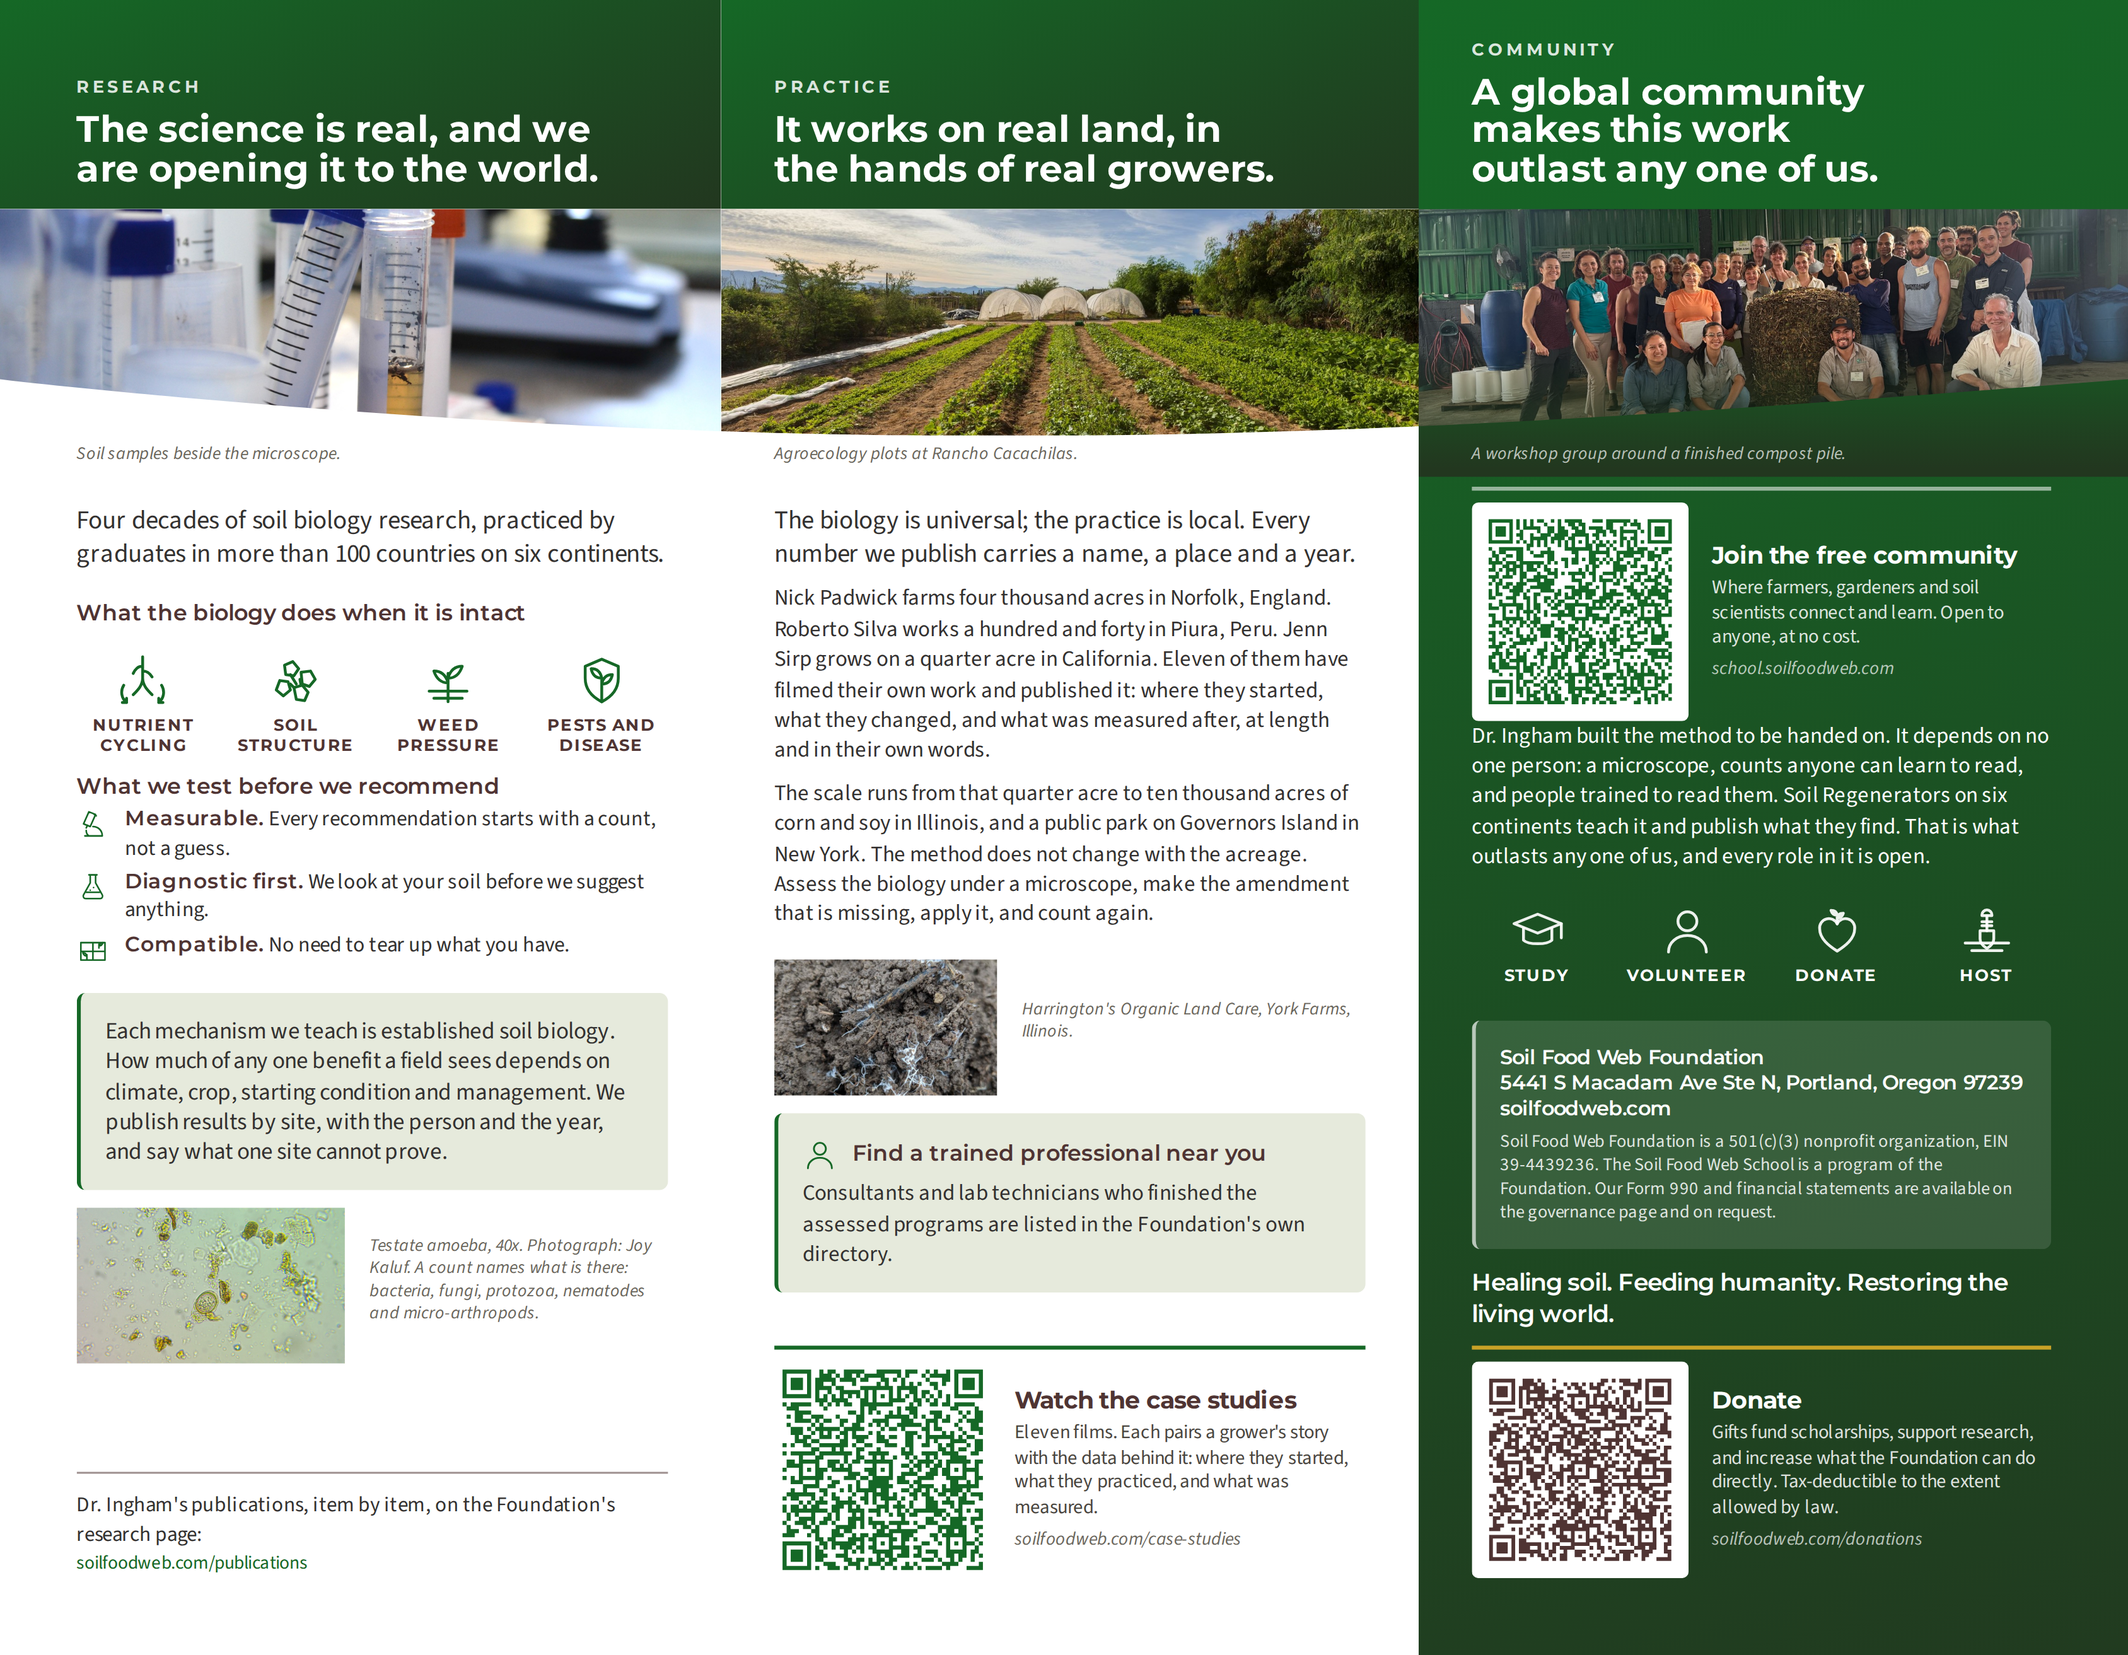
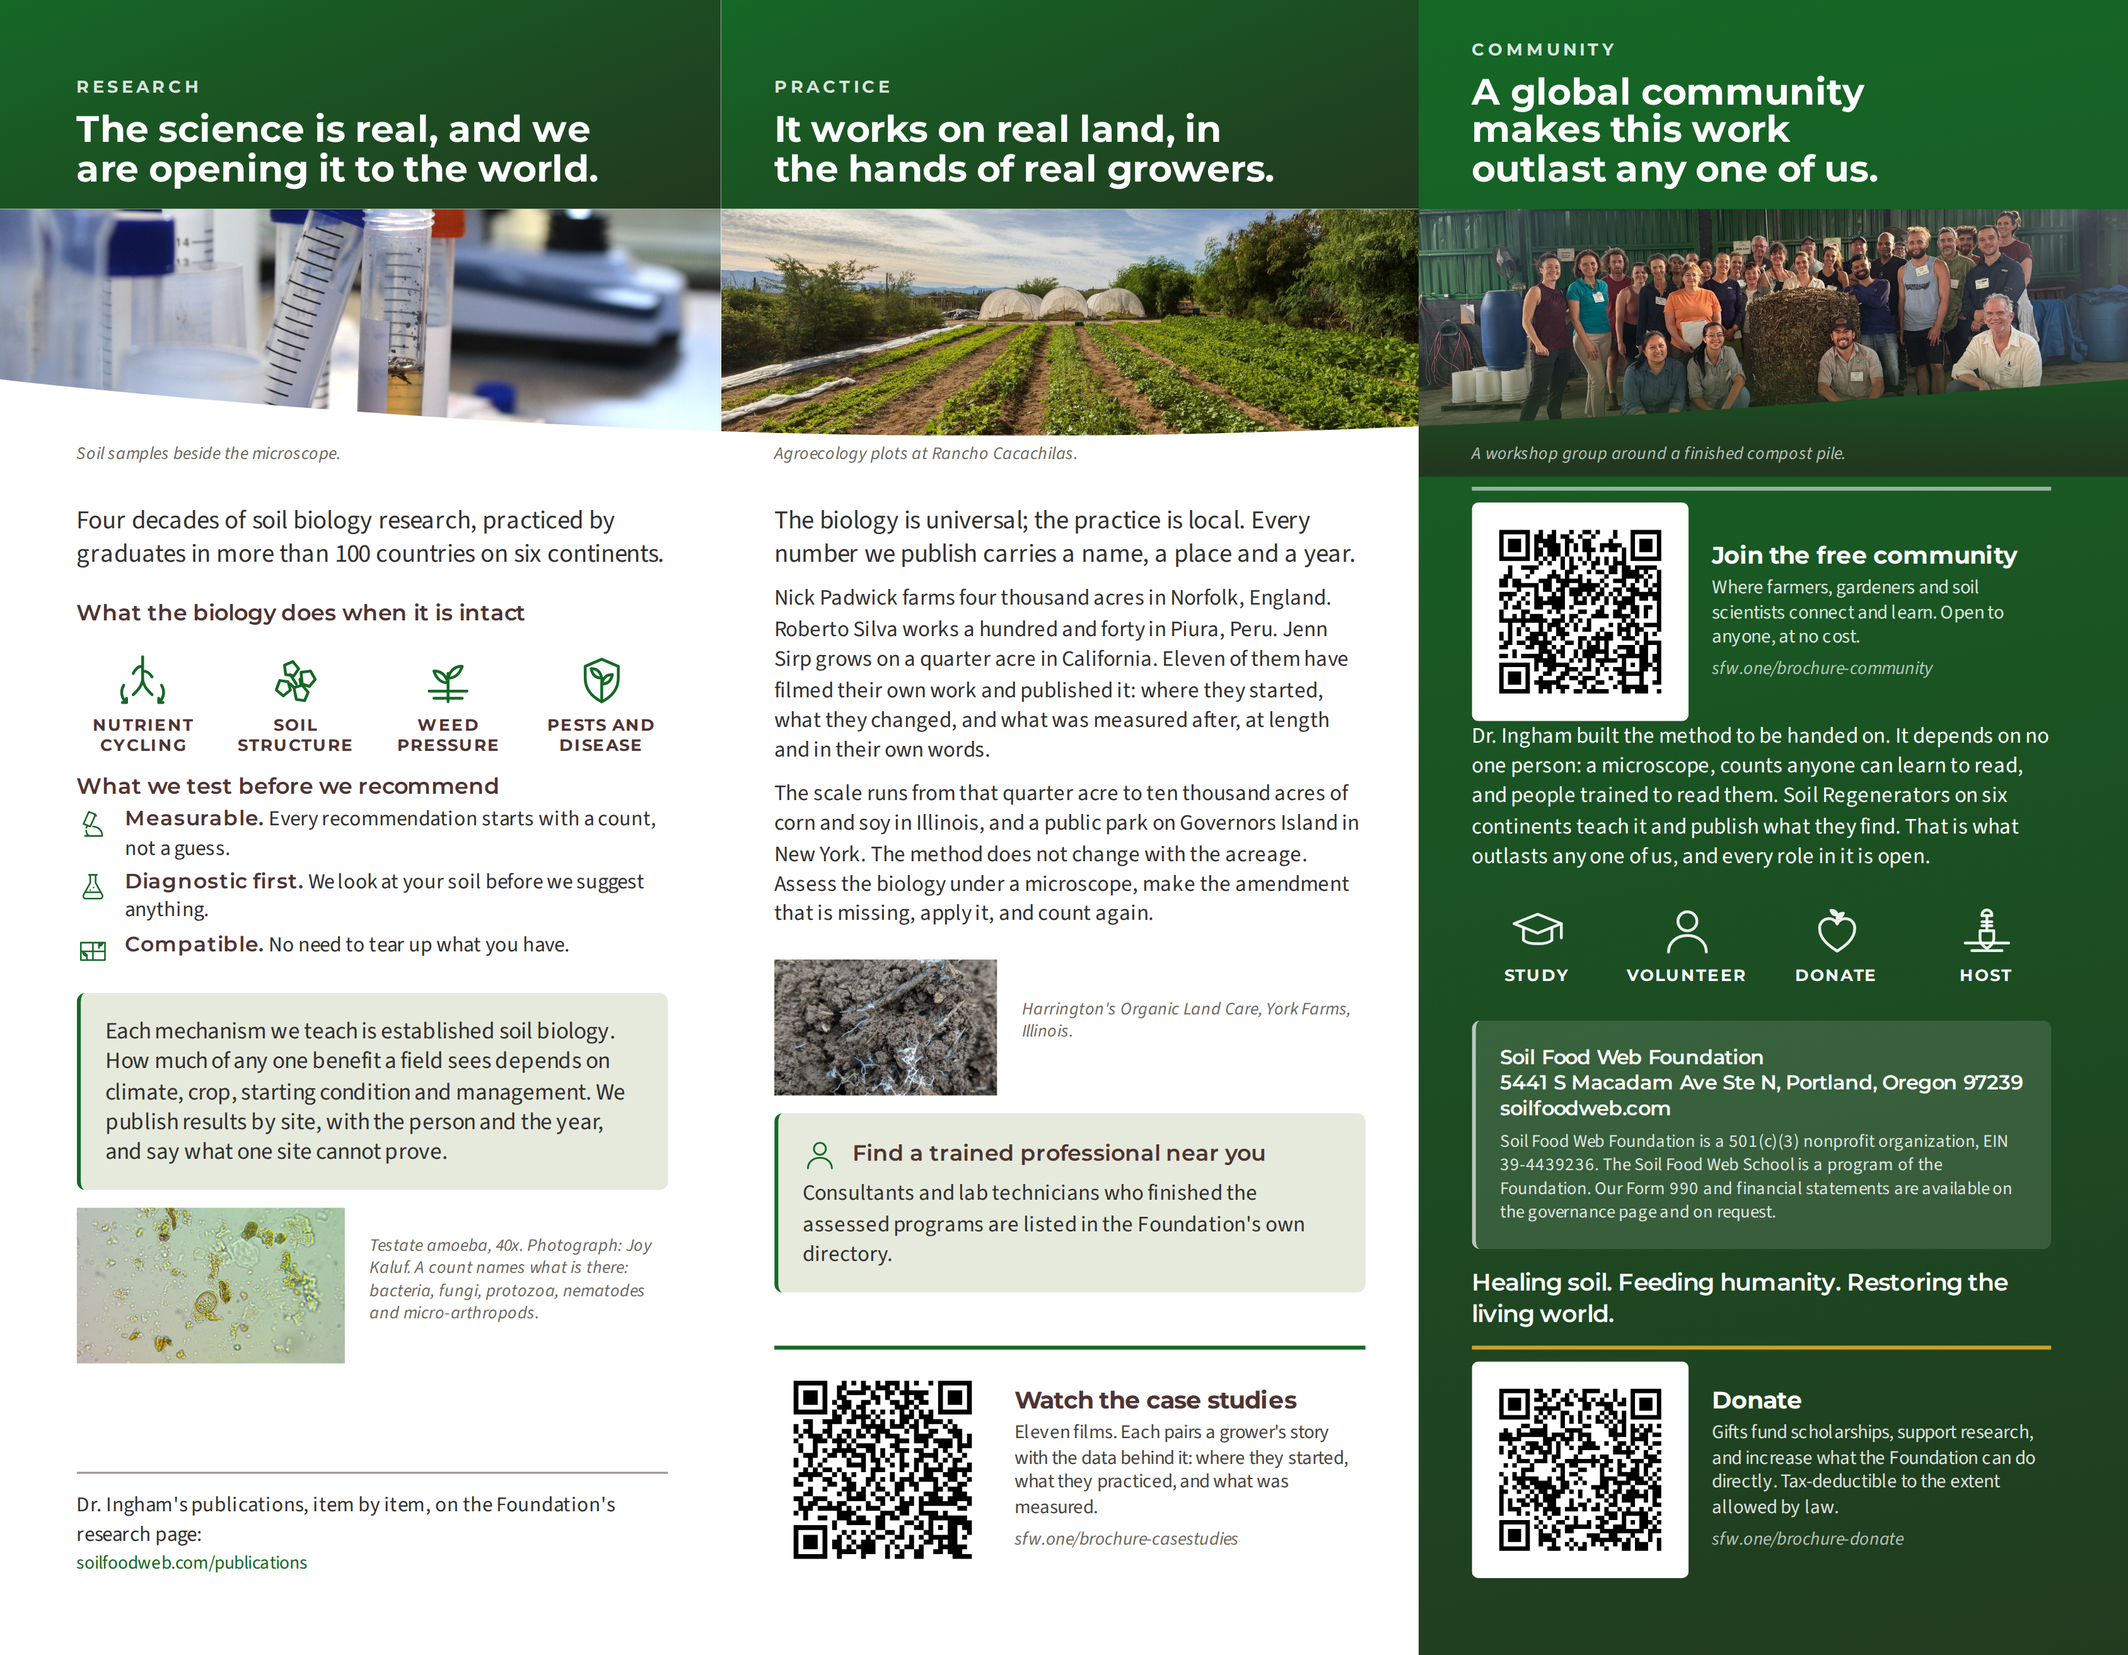
Trifold: short links in the codes, at error correction H
Every code now holds a Switchy short link rather than its destination, and
that is the change that matters. A printed code cannot be edited, and the
destinations under this brochure have already moved once: three of them
pointed at rebuilt-site paths that 404 on the live WordPress site. With a
short link in the code, a moved destination is a redirect edit instead of a
reprint. The campaign UTM parameters ride on the redirect, so reporting is
unchanged and none of it costs modules here.

The short payload buys the error correction back. All five go from M to H,
30% recoverable, with four modules of quiet zone, and every one is version
5 at 45 modules, which across 29.2mm is 0.649mm a module. The long URLs
could only manage M at 0.48 to 0.60mm, and the community code was under the
practical print minimum. There is real margin now.

Black on white rather than each panel's accent. A code has to read before
it has to be on brand, and these sit on four differently coloured panels;
the accent stays on the rule above the code, where nothing has to scan it.

The printed address under each code is the short link it encodes, so the
fallback for someone typing it in goes where the code goes. Three of the
five were wrong before: the case study code printed a path that 404s, the
scholarship code printed a bare domain that lands on the homepage, and the
community code printed the school domain rather than the community itself.
[…]

diff --git a/Trifold Design/build/inside.html b/Trifold Design/build/inside.html
@@ -160,7 +160,7 @@
           <div class="d">Eleven films. Each pairs a grower's story with the
             data behind it: where they started, what they practiced, and what
             was measured.</div>
-          <div class="h">soilfoodweb.com/case-studies</div>
+          <div class="h">sfw.one/brochure-casestudies</div>
         </div>
       </div>
 
@@ -185,7 +185,7 @@
           <div class="t">Join the free community</div>
           <div class="d">Where farmers, gardeners and soil scientists connect
             and learn. Open to anyone, at no cost.</div>
-          <div class="h">school.soilfoodweb.com</div>
+          <div class="h">sfw.one/brochure-community</div>
         </div>
       </div>
 
@@ -225,7 +225,7 @@
           <div class="d">Gifts fund scholarships, support research, and increase
             what the Foundation can do directly. Tax-deductible to the extent
             allowed by law.</div>
-          <div class="h">soilfoodweb.com/donations</div>
+          <div class="h">sfw.one/brochure-donate</div>
         </div>
       </div>
 

diff --git a/Trifold Design/build/outside.html b/Trifold Design/build/outside.html
@@ -145,7 +145,7 @@
           <div class="t">Watch a free webinar</div>
           <div class="d">A live hour with an instructor or a practitioner, every
             month. The easiest first step.</div>
-          <div class="h">webinar.soilfoodweb.com</div>
+          <div class="h">sfw.one/brochure-webinar</div>
         </div>
       </div>
 
@@ -206,7 +206,7 @@
           <div class="t">Apply for a scholarship</div>
           <div class="d">Scholarships prioritize applicants in under-resourced
             regions.</div>
-          <div class="h">soilfoodweb.com/scholarship-opportunities</div>
+          <div class="h">sfw.one/brochure-scholarship</div>
         </div>
       </div>
 

diff --git a/Trifold Design/build/make-qr.py b/Trifold Design/build/make-qr.py
@@ -1,83 +1,67 @@
 #!/usr/bin/env python3
-"""Generate the QR codes for the trifold, one per panel.
+"""Generate the five QR codes for the trifold, and the standalone PNGs.
 
-Colours are taken from css/site.css section 1. See NOTES.md for the
-token decision behind each one. Run from the repo root:
+Each code carries a Switchy short link, not the destination. Three reasons,
+and the first two are the important ones:
+
+  1. A printed code cannot be changed. The short link can, so a destination
+     that moves, or a rebuilt site that renames a path, is a redirect edit
+     rather than a reprint. This brochure has already had three addresses go
+     404 under it once.
+  2. Short payloads mean few modules, and few modules mean each module is
+     physically large enough to survive press. These fit at error correction
+     H with room to spare; the long URLs with UTM tails did not.
+  3. The UTM parameters ride on the redirect, so the campaign reporting is
+     unchanged and none of it costs modules here.
+
+Pure black on white, error correction H, four modules of quiet zone.
 
     python3 "Trifold Design/build/make-qr.py"
+    python3 "Trifold Design/build/check-qr.py"   # decodes them back out
 """
 import pathlib
 import segno
 
-OUT = pathlib.Path(__file__).parent / "qr"
-OUT.mkdir(exist_ok=True)
+HERE = pathlib.Path(__file__).parent
+SVG_OUT = HERE / "qr"                                   # placed in the artwork
+PNG_OUT = HERE.parent.parent / "exports" / "qr"         # standalone, for reuse
+SVG_OUT.mkdir(exist_ok=True)
+PNG_OUT.mkdir(parents=True, exist_ok=True)
 
-# Short on purpose. Every character in the tail costs modules, every module
-# costs physical size, and a print code that will not scan is worth nothing at
-# all. utm_content still names the panel, which is the only breakdown anyone
-# will actually read.
-BASE = "utm_source=In%20Person&utm_medium=QRCode&utm_campaign=2026_Event_Brochure"
-
-# utm_term is deliberately absent. The Foundation's convention has
-# utm_term=in_person, which repeats utm_source=In Person and reports nothing the
-# other four parameters do not. Nineteen characters of it took the community
-# code to 61 modules, and 61 modules across the 29.2mm the panel can spare is
-# 0.479mm a module, under the practical minimum for press. Without it every code
-# is at 0.512mm or better. If analytics turns out to need it, the room has to
-# come from somewhere else: a shorter destination, or a bigger code.
-
-# The UTM convention is the Foundation's own, given for the 2026 event
-# brochure. The space in utm_source is written %20 rather than literally: a
-# raw space is not legal in a URL, and it decodes back to "In Person" in
-# analytics, so the reporting reads the same and the code cannot break on a
-# fussy scanner.
-#
-# Every address printed here is a CURRENT soilfoodweb.com path, not a path on
-# the rebuilt site. The rebuild is not live yet, so /research, /practice and
-# /donate are 404s today and a printed code cannot be edited later. vercel.json
-# already 301s each of these to its new home, so they resolve now and keep
-# resolving after launch. Do not "modernise" them.
+# A code has to read before it has to be on brand, and these sit on panels in
+# four different colours. Black on white everywhere: maximum contrast, nothing
+# for a scanner to argue with. The panel's own accent stays on the rule above
+# the code, where nothing has to read it.
+DARK, LIGHT = "#000000", "#FFFFFF"
+ECC = "h"      # 30% recoverable: survives a crease, a thumb, a bad press day
+QUIET = 4      # modules of quiet zone on every side, the spec minimum
 
 CODES = {
-    # panel 6, Community. --green, Food Web Green.
-    "community": (
-        "https://school.soilfoodweb.com/products/communities/SFW-public-community"
-        f"?{BASE}&utm_content=community",
-        "#156826",
-    ),
-    # panel 2, the Dr. Elaine story panel. --legacy, Legacy Purple.
-    "webinar": (
-        f"https://webinar.soilfoodweb.com/?{BASE}&utm_content=webinar",
-        "#6B4C7A",
-    ),
-    # panel 3, Teaching. --edu, Education Blue.
-    "scholarship": (
-        "https://soilfoodweb.com/scholarship-opportunities/"
-        f"?{BASE}&utm_content=scholarship",
-        "#1F4E73",
-    ),
-    # panel 5, Practice. --green. The eleven case study films, which is where
-    # a reader who believes the practice panel wants to go next.
-    # 301s to /practice#case-studies.
-    "case-studies": (
-        f"https://soilfoodweb.com/case-studies/?{BASE}&utm_content=case_studies",
-        "#156826",
-    ),
-    # panel 6, Community. --soil, not --gold: the brand's gold is #C9A227,
-    # which against white gives a code a scanner has to work for. The gold
-    # appears on the rule above the code instead, where nothing has to read it.
-    # 301s to /donate.
-    "donate": (
-        f"https://soilfoodweb.com/donations/?{BASE}&utm_content=donate",
-        "#4F3433",
-    ),
+    # name           short link                                      PNG name
+    "webinar":      ("https://www.sfw.one/brochure-webinar",      "webinar"),
+    "scholarship":  ("https://www.sfw.one/brochure-scholarship",  "scholarship"),
+    "case-studies": ("https://www.sfw.one/brochure-casestudies",  "casestudies"),
+    "community":    ("https://www.sfw.one/brochure-community",    "community"),
+    "donate":       ("https://www.sfw.one/brochure-donate",       "donate"),
 }
 
-for name, (url, colour) in CODES.items():
-    # M correction (15%). Q would be sturdier, but these URLs carry long UTM
-    # tails: at Q the community code is 65 modules, which at the 1.15in the
-    # panel can spare is 0.45mm a module, under the practical print minimum.
-    # M holds every code at 0.51mm or better. See NOTES.md.
-    qr = segno.make(url, error="m")
-    qr.save(OUT / f"{name}.svg", scale=10, border=2, dark=colour, light=None)
-    print(f"{name:<12} version {qr.version:>2}  {qr.symbol_size(scale=1, border=2)[0]:>3} modules  {url}")
+# The placed codes are 1.15in square including their quiet zone. Anything at or
+# above 2cm is fine for print; this is 29.2mm.
+PLACED_MM = 1.15 * 25.4
+
+print(f"{'code':<14}{'ver':>4}{'modules':>9}{'mm/module':>11}   payload")
+for name, (url, png_name) in CODES.items():
+    qr = segno.make(url, error=ECC)
+    modules = qr.symbol_size(scale=1, border=QUIET)[0]
+
+    # Vector for the artwork: no resolution to get wrong at the printer.
+    qr.save(SVG_OUT / f"{name}.svg", scale=10, border=QUIET,
+            dark=DARK, light=LIGHT)
+
+    # Standalone raster, comfortably over 1200px on the short side.
+    scale = -(-1200 // modules)          # ceiling division
+    qr.save(PNG_OUT / f"sfw-brochure-qr-{png_name}.png", scale=scale,
+            border=QUIET, dark=DARK, light=LIGHT)
+
+    print(f"{name:<14}{qr.version:>4}{modules:>9}{PLACED_MM/modules:>10.3f}   {url}")
+    print(f"{'':14}{'':>4}{'':>9}{'':>11}   png {modules*scale}x{modules*scale}px")

diff --git a/Trifold Design/NOTES.md b/Trifold Design/NOTES.md
@@ -277,18 +277,30 @@ panel 6, verbatim from `docs/copy-deck-v2.md` section 1.3. Every course link poi
 
 ## QR codes
 
-One per panel, never two on a page, on panels 2, 3 and 6. Panels 1, 4 and 5 carry none.
+Five, on panels 2, 3, 5 and 6. Panel 6 carries two, the free community under the photograph and the
+donate ask at its foot; they sit about six inches apart at opposite ends of the panel, which is far
+enough that a phone cannot frame both at once. Panels 1 and 4 carry none.
 
-Generated at **error correction M (15%)**, printed at **1.15in square**. Q correction would be
-sturdier, but these URLs carry long UTM tails: at Q the community code is 65 modules, which at 1.15in
-is 0.45mm a module, under the practical minimum for print. At M the codes are 49, 53 and 57 modules,
-which is 0.51 to 0.60mm a module. That is workable but not generous. **Ask the printer to scan a proof
-off the press, not off a laser print.** If any of them is marginal, the fix is short redirect addresses
-rather than a bigger code: the UTM tail is most of the payload.
+Every code holds a **Switchy short link** (`sfw.one/brochure-*`), not the destination. That is the
+important decision on this page. A printed code cannot be edited, and the destinations under this
+brochure have already moved once: three addresses pointed at rebuilt-site paths that 404 on the live
+WordPress site. With a short link in the code, a moved destination or a renamed path is a redirect
+edit rather than a reprint. The campaign UTM parameters ride on the redirect, so the reporting is
+unchanged and none of it costs modules here.
 
-The scholarship code points at `soilfoodweb.com/scholarship-opportunities`, which is the current
-WordPress page, as given in the brief. The new site has `learn-scholarships.html`. **Re-point this
-before print if the new site is live by then**, or the code will need a redirect on day one.
+The short payload also buys the error correction back. Generated at **H (30% recoverable)**, four
+modules of quiet zone, pure black on white, printed at **1.15in (29.2mm) square**. All five are
+version 5, 45 modules, **0.649mm a module**. The long URLs with UTM tails could only manage M at
+0.48 to 0.60mm, and the community code was under the practical print minimum. There is real margin
+now, but a proof scanned off the press rather than off a laser print is still worth asking for.
+
+Black on white rather than the panel accent: a code has to read before it has to be on brand, and
+these sit on four different coloured panels. The accent stays on the rule above each code, where
+nothing has to scan it.
+
+`build/make-qr.py` writes the placed SVGs and the standalone PNGs in `exports/qr/` from one table.
+`build/check-qr.py` decodes every placed code back out of the 300 DPI render and fails if any does
+not read. Run both after any change to a link, a colour, or the size of `.qr img`.
 
 ## Also worth a person's eye
 
